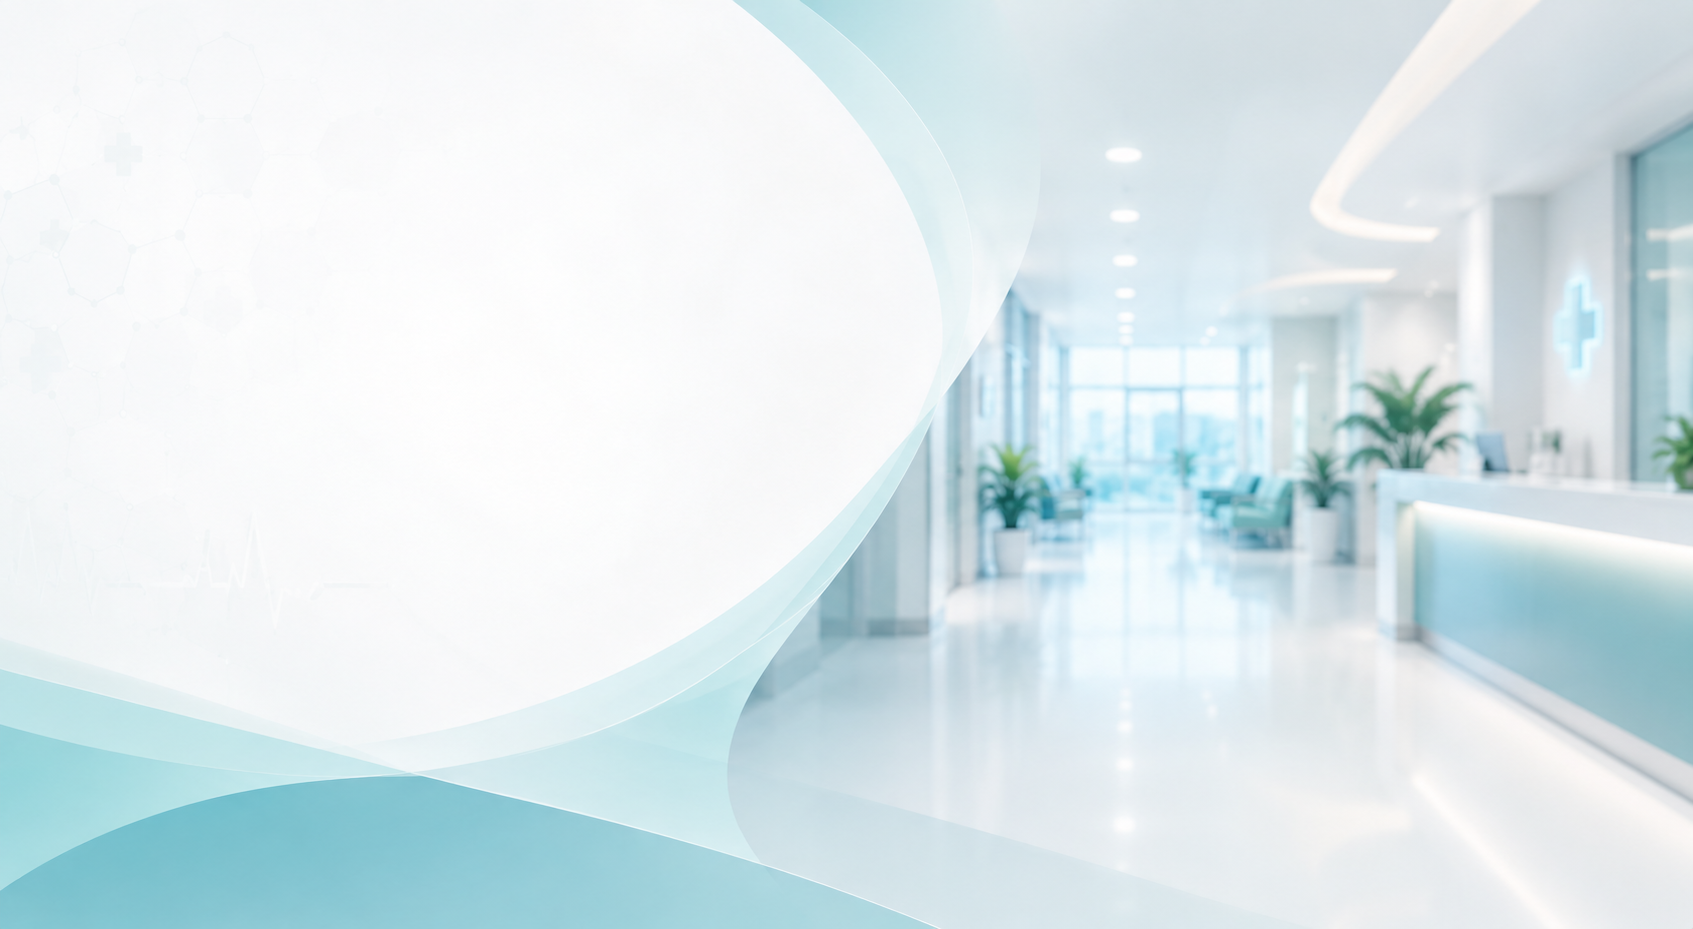
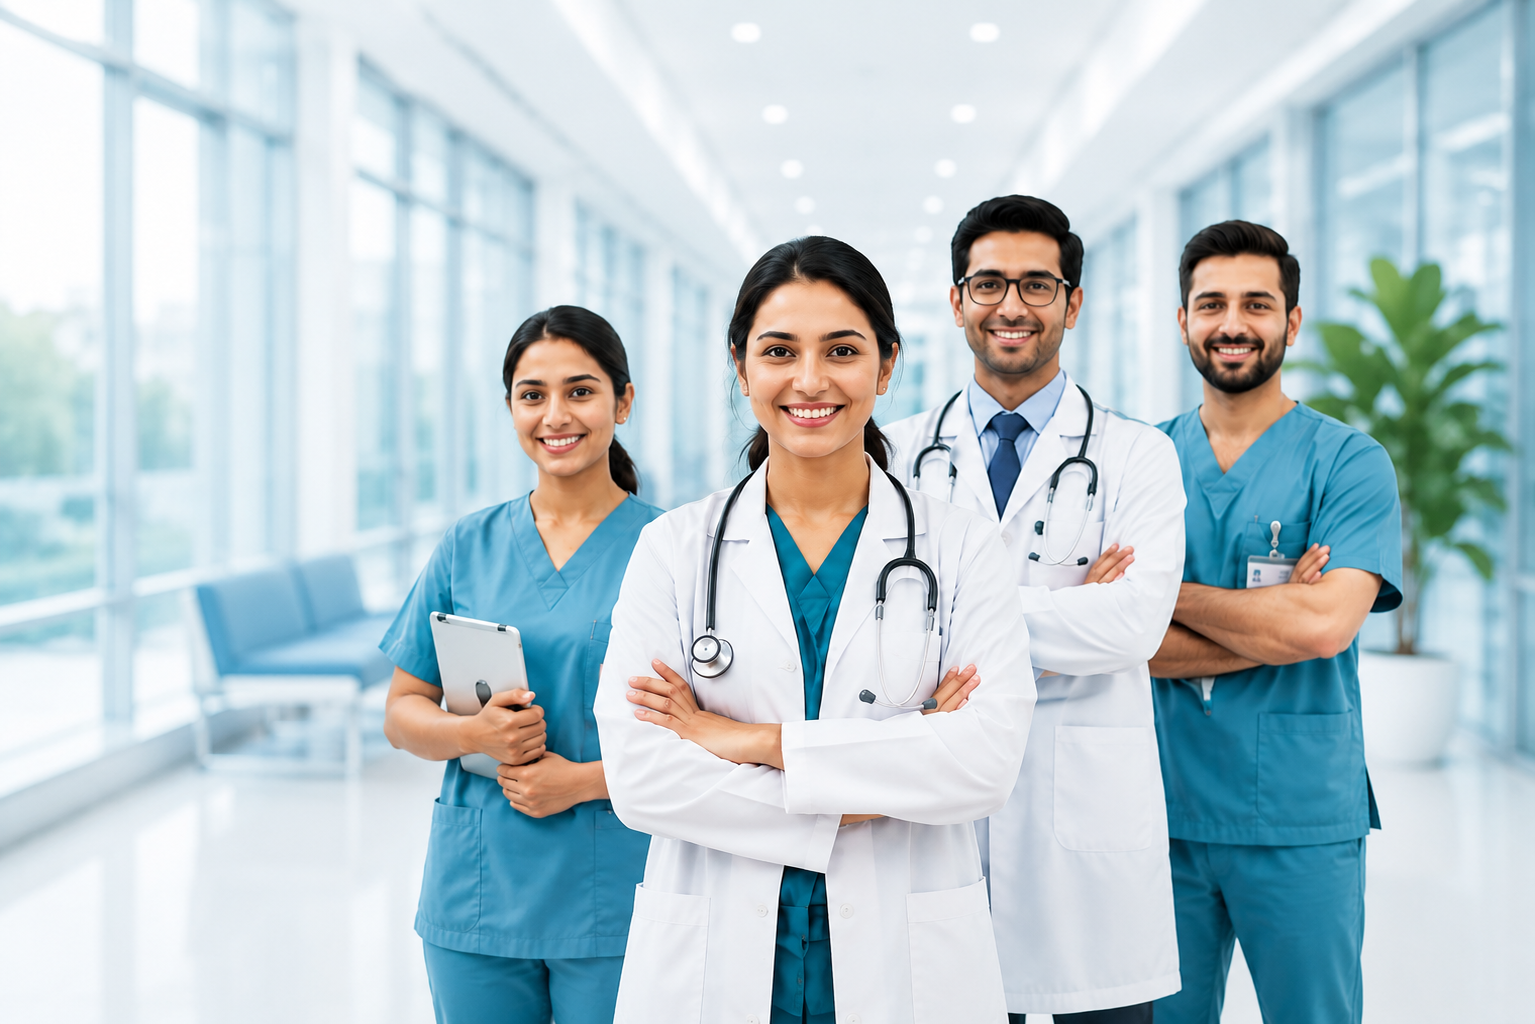
fix: resolve duplicate hero section and remove statistics section from FindDoctors

diff --git a/Frontend/src/pages/FindDoctors.jsx b/Frontend/src/pages/FindDoctors.jsx
@@ -246,20 +246,11 @@ const FindDoctors = () => {
       >
 
       {/* 1. PAGE HERO */}
-
-      {/* 1. PAGE HERO */}
-
-<section 
-  className="relative overflow-hidden pt-32 pb-28 lg:pt-40 lg:pb-36 bg-cover bg-center bg-no-repeat flex items-center"
-  style={{ backgroundImage: `url(${doctorHeroImg})` }}
->
-
       <section 
-        className="relative overflow-hidden pt-32 pb-28 lg:pt-40 lg:pb-36 bg-cover bg-center bg-no-repeat flex items-center"
+        className="relative overflow-hidden pt-32 pb-28 lg:pt-40 lg:pb-36 bg-cover bg-center bg-no-repeat flex items-center w-full"
         style={{ backgroundImage: `url(${doctorHeroImg})` }}
       >
-        <div className="absolute inset-0 bg-gradient-to-r from-slate-950/90 via-slate-900/75 to-slate-950/40 pointer-events-none -z-0" />
-
+        <div className="absolute inset-0 bg-gradient-to-r from-slate-950/95 via-slate-900/60 to-transparent pointer-events-none" />
 
         <div className="relative z-10 max-w-7xl mx-auto px-4 sm:px-6 lg:px-8 w-full">
           <div className="max-w-2xl space-y-6">
@@ -300,7 +291,6 @@ const FindDoctors = () => {
           </div>
         </div>
       </section>
-            </section>
     
 
       {/* 2. SEARCH DOCTOR PANEL */}
@@ -387,42 +377,6 @@ const FindDoctors = () => {
         </div>
       </section>
 
-      {/* 3. TRUST STATISTICS */}
-      <section className="max-w-7xl mx-auto px-4 sm:px-6 lg:px-8 mb-20">
-        <div className="bg-white rounded-3xl border border-slate-200/80 shadow-sm p-8 lg:p-12">
-          <div className="grid grid-cols-2 lg:grid-cols-4 gap-8 text-center divide-y lg:divide-y-0 lg:divide-x divide-slate-100">
-            
-            <div className="space-y-1 pt-4 lg:pt-0">
-              <p className="text-3xl sm:text-4xl lg:text-5xl font-extrabold bg-gradient-to-r from-blue-600 to-teal-600 bg-clip-text text-transparent">
-                10K+
-              </p>
-              <p className="text-sm sm:text-base font-medium text-slate-600">Patients Served</p>
-            </div>
-
-            <div className="space-y-1 pt-4 lg:pt-0">
-              <p className="text-3xl sm:text-4xl lg:text-5xl font-extrabold bg-gradient-to-r from-blue-600 to-teal-600 bg-clip-text text-transparent">
-                250+
-              </p>
-              <p className="text-sm sm:text-base font-medium text-slate-600">Verified Doctors</p>
-            </div>
-
-            <div className="space-y-1 pt-4 lg:pt-0">
-              <p className="text-3xl sm:text-4xl lg:text-5xl font-extrabold bg-gradient-to-r from-blue-600 to-teal-600 bg-clip-text text-transparent">
-                50+
-              </p>
-              <p className="text-sm sm:text-base font-medium text-slate-600">Medical Specialties</p>
-            </div>
-
-            <div className="space-y-1 pt-4 lg:pt-0">
-              <p className="text-3xl sm:text-4xl lg:text-5xl font-extrabold bg-gradient-to-r from-blue-600 to-teal-600 bg-clip-text text-transparent">
-                4.9/5
-              </p>
-              <p className="text-sm sm:text-base font-medium text-slate-600">Patient Rating</p>
-            </div>
-
-          </div>
-        </div>
-      </section>
 
       {/* 4. BROWSE BY SPECIALTY (CONTINUOUSLY MOVING INFINITE CAROUSEL) */}
       <section id="specialties" className="bg-gradient-to-b from-slate-100/60 via-blue-50/20 to-slate-100/60 py-20 border-y border-slate-200/60 scroll-mt-24 mb-20 overflow-hidden">
